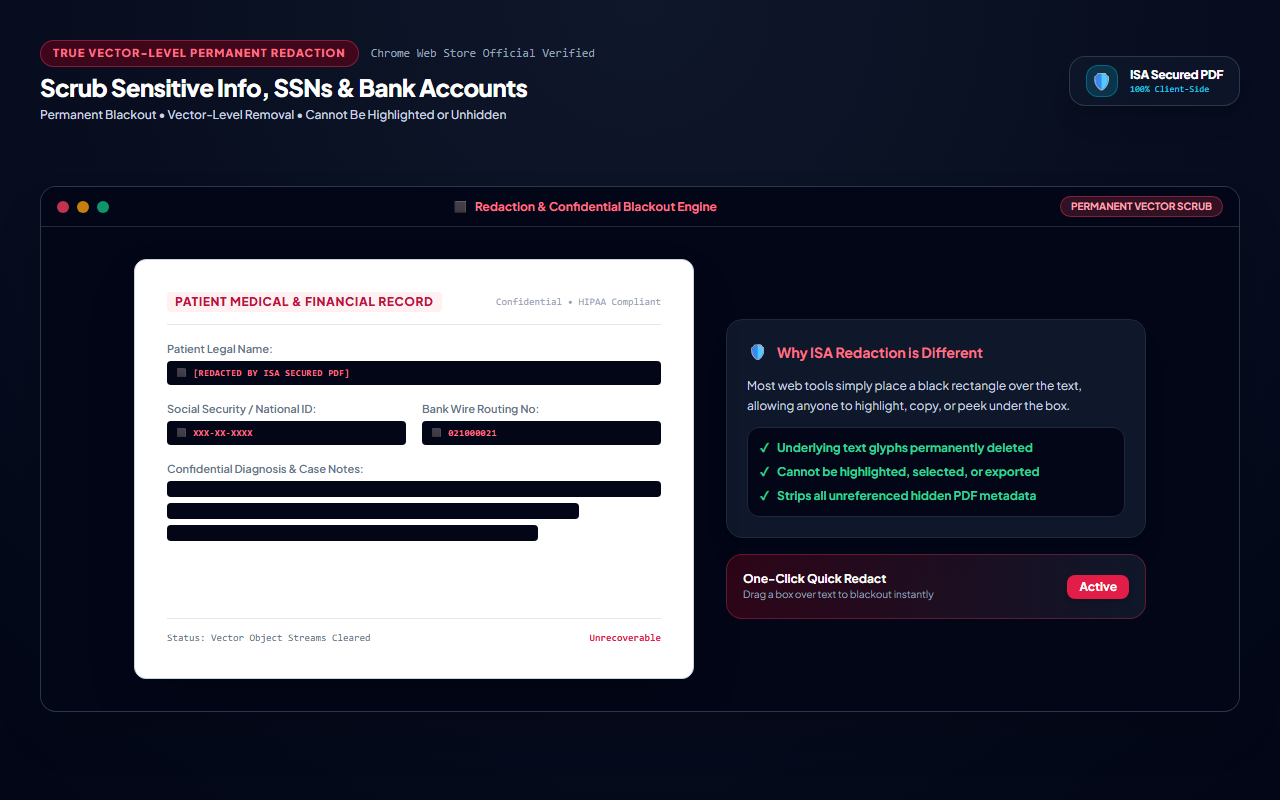
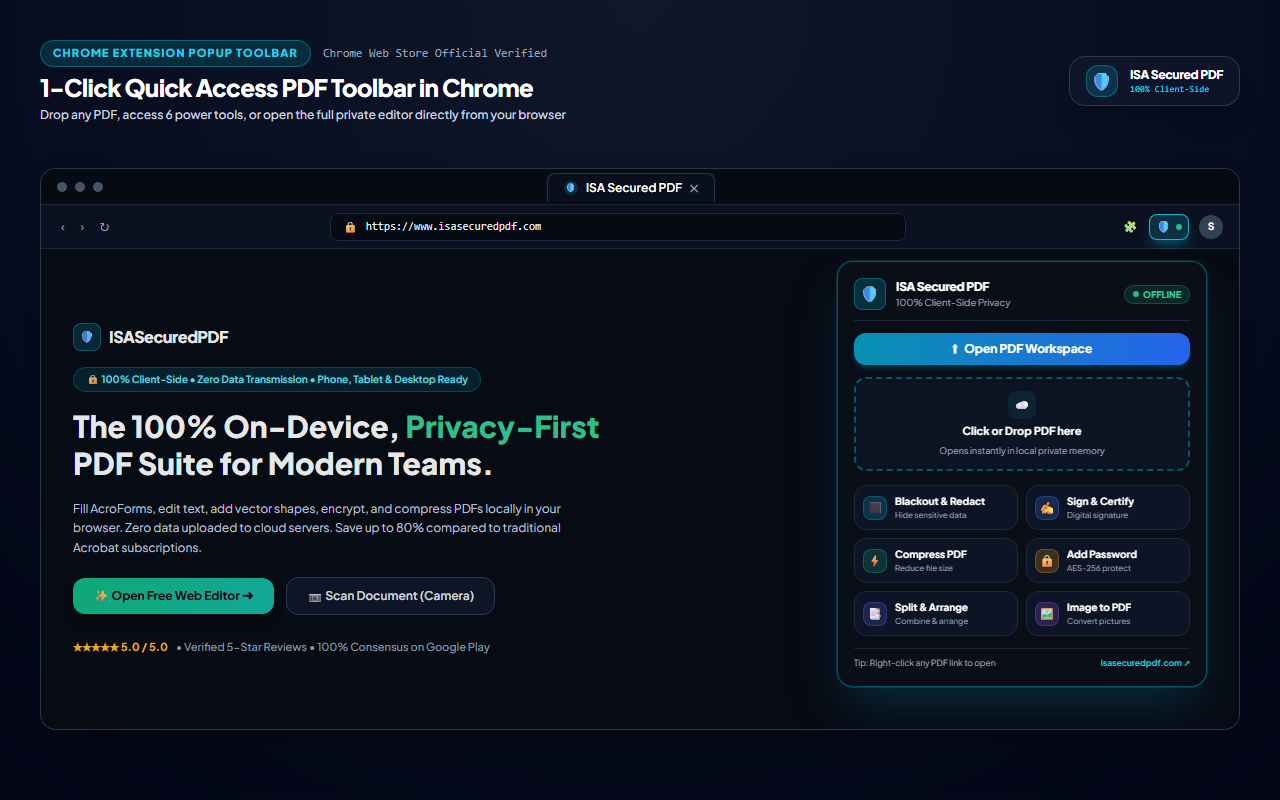
Replace red theme with cyber cyan and recreate Screenshot 2 to showcase real floating Chrome extension popup

diff --git a/chrome-extension/popup.css b/chrome-extension/popup.css
@@ -256,9 +256,9 @@ body {
 
 /* Unique Icon Backgrounds & Colors */
 .icon-redact {
-  background: rgba(239, 68, 68, 0.15);
-  border: 1px solid rgba(239, 68, 68, 0.3);
-  color: #f87171;
+  background: rgba(14, 165, 233, 0.15);
+  border: 1px solid rgba(14, 165, 233, 0.3);
+  color: #38bdf8;
 }
 
 .icon-sign {
